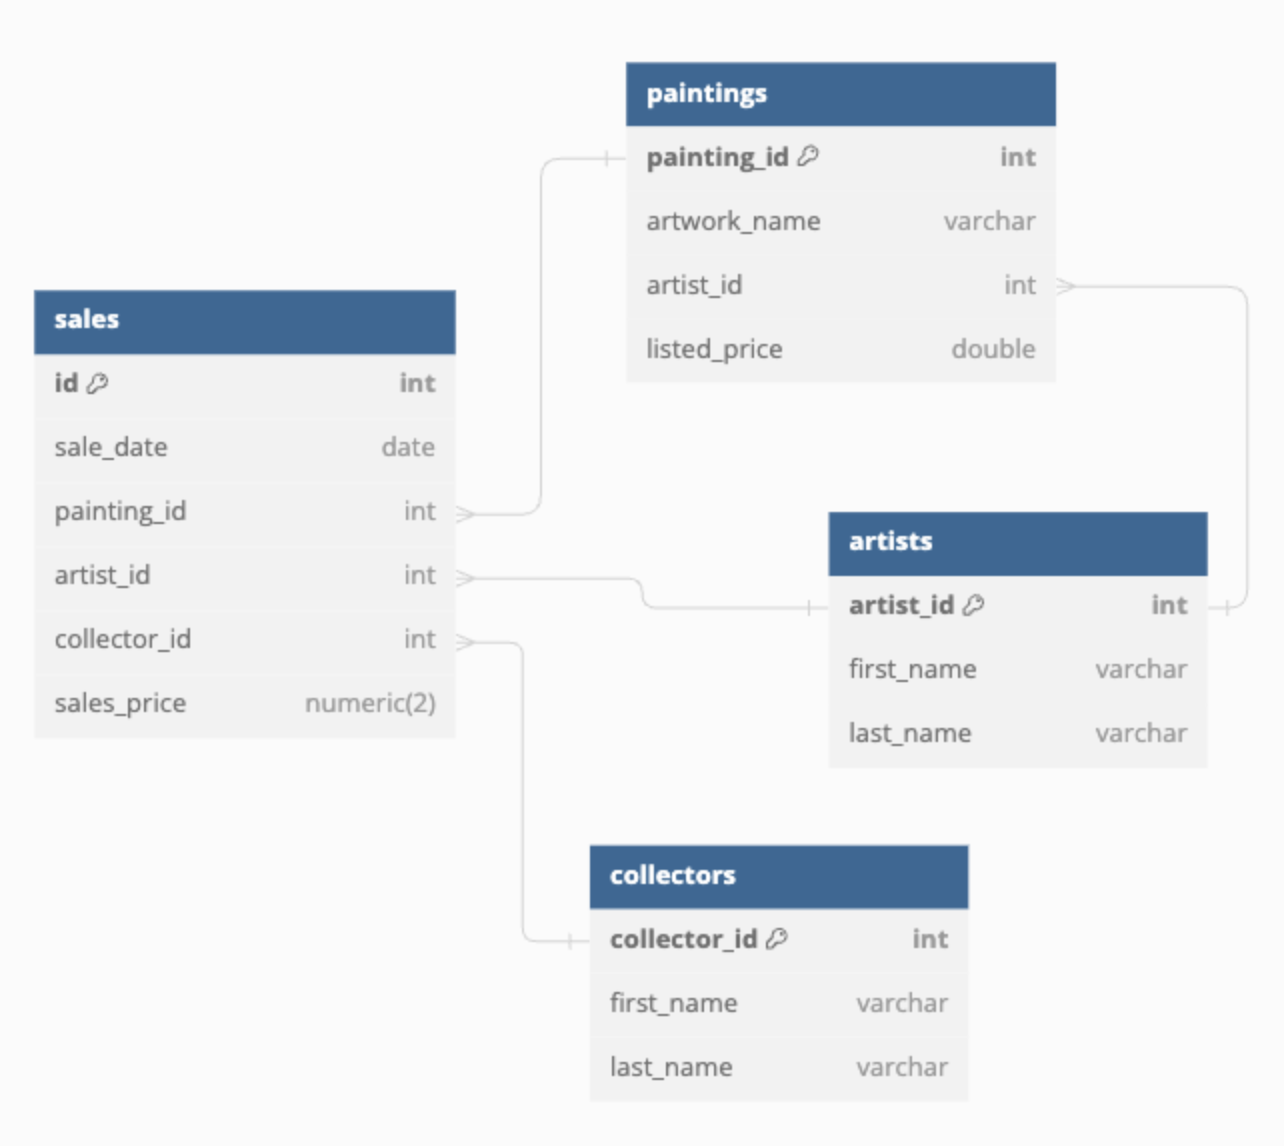
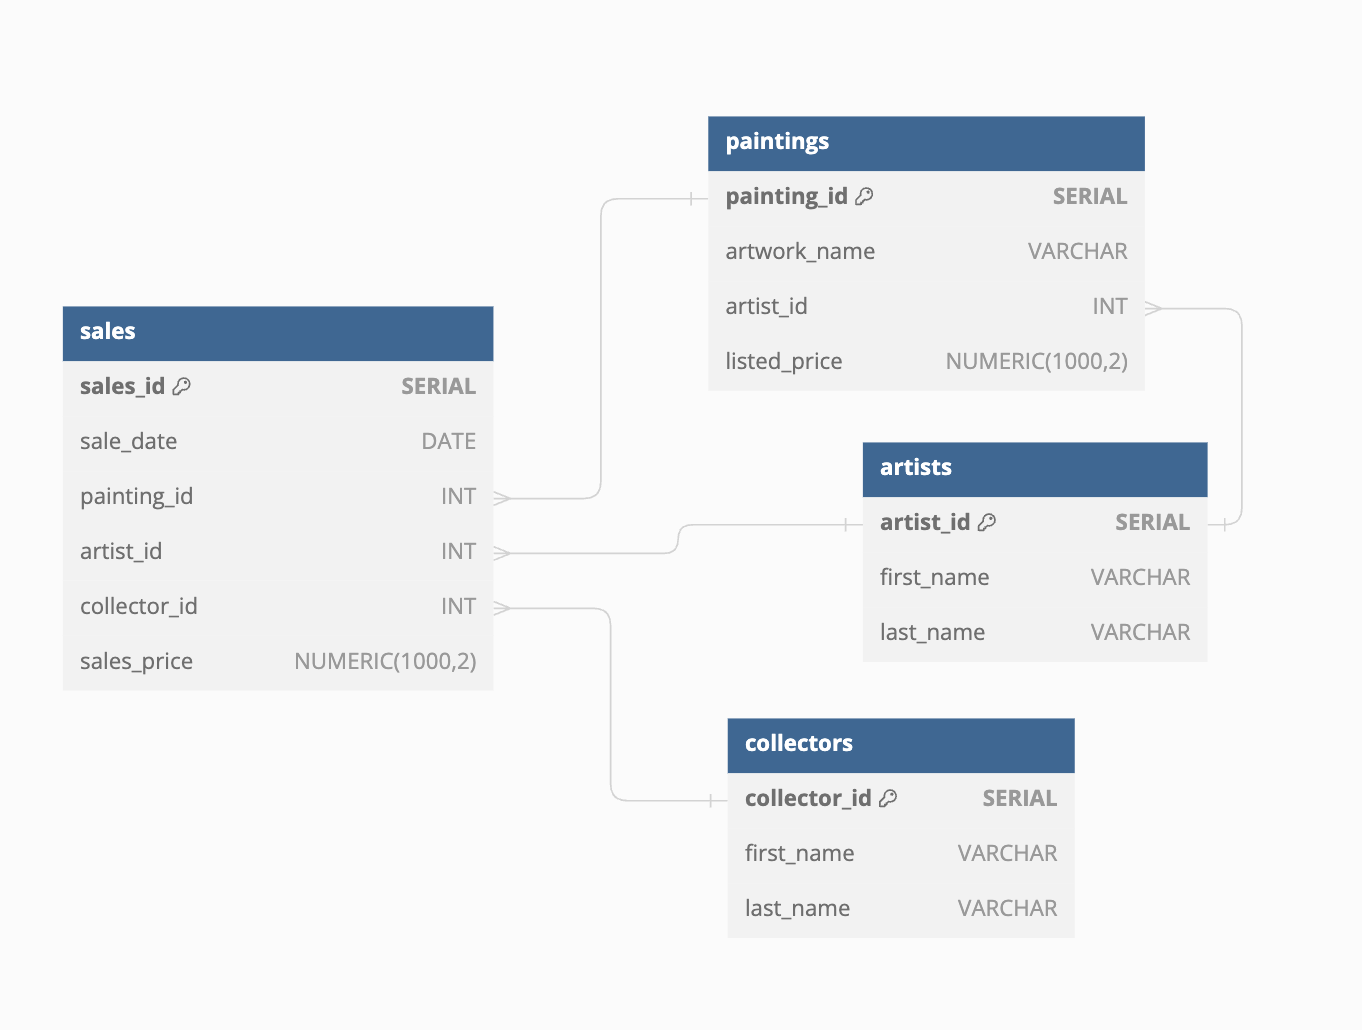
BACKUP_2024-07-29

diff --git a/seminar_plans/de/04_de_toolkit/subqueries_and_ctes/plan.md b/seminar_plans/de/04_de_toolkit/subqueries_and_ctes/plan.md
@@ -21,11 +21,11 @@ We saw a couple of different types of subquery this morning. What were they?
 Showing the DB Diagram and ask for someone the help me with a solution.
 
 ```sql
-SELECT painting_name, listed_price
+SELECT artwork_name, listed_price
 FROM paintings
 WHERE listed_price > (
-    SELECT AVG(listed_price)
-    FROM paintings
+  SELECT AVG(listed_price)
+  FROM paintings
 );
 ```
 
@@ -33,11 +33,13 @@ WHERE listed_price > (
 
 Similar to the first, ask for help with a solution.
 
+**CAREFUL NOT TO JOIN ON SALES.ARTIST_ID AS THIS WILL LEAD TO DUPLICATE ROWS (MULTIPLE ARTWORKS PER ARTIST)**
+
 ```sql
-SELECT first_name, last_name, painting_name, sales_price
+SELECT first_name, last_name, artwork_name, sales_price
 FROM sales
-JOIN paintings ON sales.painting_id = paintings.painting_id
-JOIN artists on sales.artist_id = artists.artist_id
+JOIN paintings ON paintings.painting_id = sales.painting_id
+JOIN artists ON sales.artist_id = artists.artist_id
 WHERE sales_price = (
   SELECT MIN(sales_price)
   FROM sales
@@ -84,7 +86,7 @@ Solution with inner join for comparison:
 SELECT DISTINCT collectors.first_name, collectors.last_name
 FROM collectors
 JOIN sales
-  ON collectors.id = sales.collector_id;
+ON collectors.collector_id = sales.collector_id;
 ```
 
 Possible question: When to use joins vs subqueries? 🤔 🤔 🤔 - I believe JOINs are more optimal but defer until tomorrows lecture.
@@ -106,7 +108,7 @@ ORDER BY price_diff_from_average DESC;
 
 Explain what this is doing, showing the result of running a query.
 
-❓ Ask students if they can spot anything that might be a bit inefficient. ❓
+❓ Ask students if they can spot any repetition ❓
 
 **If no answers point out that I'm currently calculating the average twice, I'd like to rewrite my current solution to use a Common Table Expression:**
 
@@ -117,11 +119,11 @@ Work towards this solution:
 ```sql
 WITH sales_details AS (
   SELECT
-    sales_price,
-    (SELECT MIN(sales_price) FROM sales) AS min,
-    (SELECT MAX(sales_price) FROM sales) AS max,
-    ROUND((SELECT AVG(sales_price) FROM sales), 2) AS average
-    FROM sales
+  sales_price,
+  (SELECT MIN(sales_price) FROM sales) AS min,
+  (SELECT MAX(sales_price) FROM sales) AS max,
+  ROUND((SELECT AVG(sales_price) FROM sales), 2) AS average
+  FROM sales
 )
 SELECT
   sales_price,
@@ -139,7 +141,7 @@ Encourage students to look at both solutions, can they see any major benefits to
 
 - Can give the CTE a meaningful name (admittedly aliases could help with this as well) - enhance readability
 - CTEs are reusable within a query
-- Allow you to break down complex queries into smaller more manageable parts - multiple CTEs
+- Allow you to break down complex queries into smaller more manageable parts - multiple CTEs stacked up
 - Recursion, should you wish 👀
 
 Possible drawbacks:
